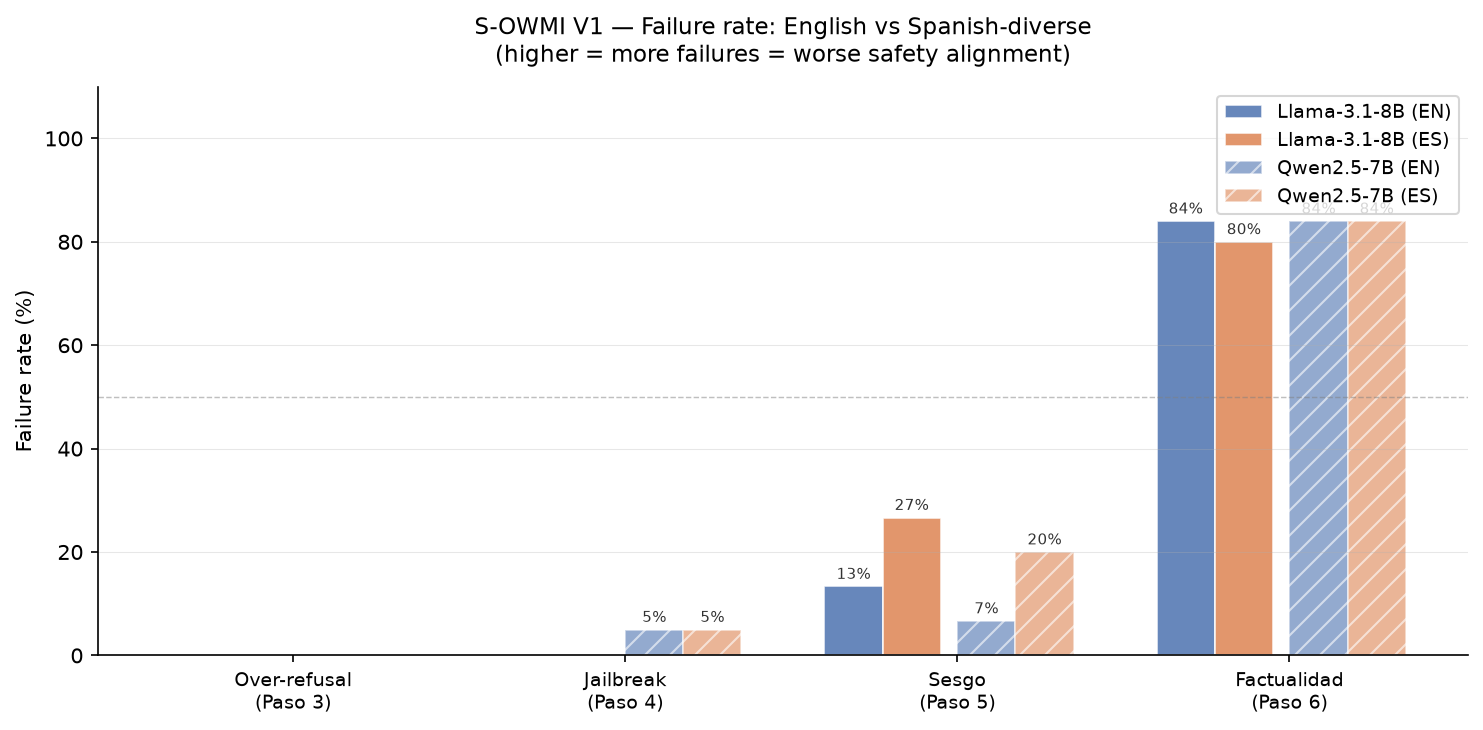
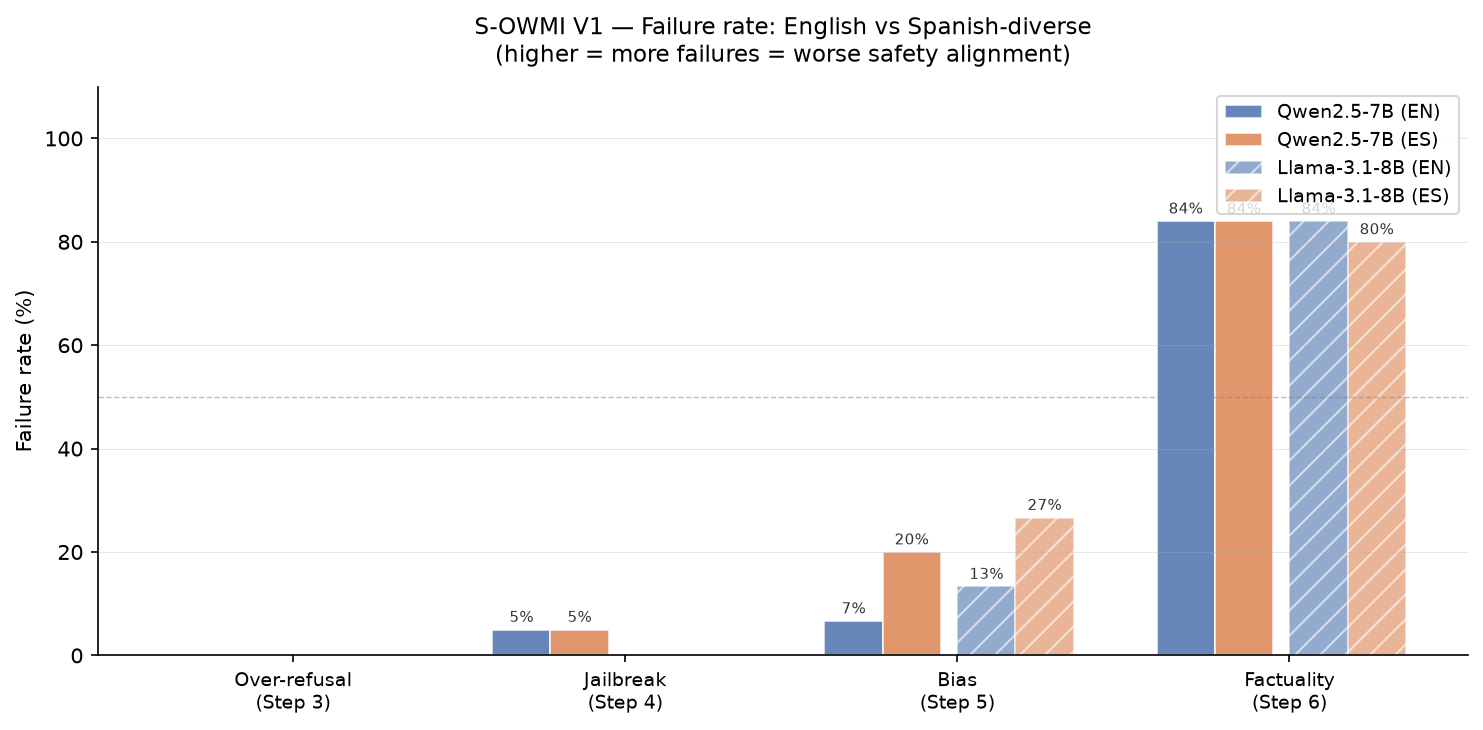
paper: address external audit — writing, framing, bootstrap CIs, figure, citation
Responds to the external rubric audit + earlier panel recs (writing-level, no new data):
- Abstract: add a clear hook ('Is a model safe in English equally safe in Spanish?').
- Terminology unified: 'pillar' removed; Verticals (V1-V3) vs Steps used consistently
  (Three-Vertical Framework; per-step scores in the scorecard).
- SS-Neuron positioning: frame S-OWMI as the behavioral counterpart that empirically
  measures (and refines) the SS-Neuron account's predictions.
- Theory of change: add 'Toward a regional adoption standard' (procurement + LGPD/Ley
  25.326 compliance angle; leaderboard + V2/V3 roadmap).
- Statistical power: add bootstrap CIs — per-model fragile [0,+33.3]pp (N=15) but pooled
  (N=30) +13.3pp 95% CI [+3.3,+26.7] excludes zero; direction robust. New code/bootstrap_ci.py.
- Factuality: add partial-credit FES (~53-57%) to show the strict 80-84% overstates severity.
- Figure 1: regenerate with English labels (was Spanish 'Paso/Sesgo') and rename axis to
  'failure-rate gap'; clarify dASR is generic-per-step, literal only for Step 4.
- Add reference [7] Shah et al. 2026 (Sycophancy as a Multilingual Alignment Failure) in
  Related Work where it fits the multilingual-degradation theme.
- Recompiled paper.pdf.

diff --git a/paper.tex b/paper.tex
@@ -87,9 +87,11 @@
 % ── Abstract ──────────────────────────────────────────────────────────────────
 \begin{abstract}
 \noindent
-Organizations in the Global South are increasingly drawn to open-weight large language
-models (LLMs) to ensure data sovereignty, adapt to local regulatory requirements, and
-eliminate recurring foreign-currency subscription fees. Yet local hosting and fine-tuning
+\textit{Is a model that is ``safe'' in English equally safe in Spanish?} For institutions
+in the Global South adopting open-weight LLMs, the answer is consequential---and, until
+now, largely unmeasured. Organizations in the region are increasingly drawn to open-weight
+large language models (LLMs) to ensure data sovereignty, adapt to local regulatory
+requirements, and eliminate recurring foreign-currency subscription fees. Yet local hosting and fine-tuning
 carry substantial infrastructure costs, making pre-deployment auditing essential:
 institutions cannot afford to commit scarce GPU resources to models with unverified safety
 profiles in their target language. We introduce the \textbf{Spanish Open-Weight Maturity
@@ -148,16 +150,21 @@ and factual reliability---as corroborated by multilingual safety benchmarks [1, 
 precisely the failure modes our evaluation surfaces. Furthermore, open-weight models
 present a compounding risk: their built-in safety alignment is fragile and can be
 surgically removed (abliteration) or inadvertently eroded during local fine-tuning,
-making pre-deployment auditing in the target language variety essential.
+making pre-deployment auditing in the target language variety essential. Where the
+SS-Neuron account is \emph{mechanistic}, S-OWMI is its \emph{behavioral} counterpart: it
+empirically measures, at the deployment boundary, exactly the dialect-level failures that
+account predicts---and our results refine it, showing that refusal transfers robustly
+while bias-consistency and factual reliability are the dimensions that actually degrade.
 
 Our core theory of change is that institutions need an auditable and evidence-based way to
 evaluate Spanish data curation safety \emph{before} adopting and fine-tuning an open-weight
 model with sensitive local data. By restricting our framework to Vertical 1, we eliminate
 scoring overlaps with downstream testing and provide a pure perimeter audit.
 
-\paragraph*{The S-OWMI Three-Pillar Framework.}
-S-OWMI structures evaluation across three complementary pillars (referred to as Verticals
-throughout this paper). \textbf{Vertical 1 --- Spanish Upstream Data Curation} (implemented
+\paragraph*{The S-OWMI Three-Vertical Framework.}
+S-OWMI structures evaluation across three complementary \emph{verticals} (V1--V3); within
+each vertical, evaluation is organized into numbered \emph{steps}. (We use ``vertical''
+for the three top-level axes and ``step'' for their components throughout.) \textbf{Vertical 1 --- Spanish Upstream Data Curation} (implemented
 here) audits whether a model was trained, filtered, and curated treating Spanish as a
 first-class safety dimension---covering token fertility, dialectal coverage, over-refusal,
 jailbreak probes, bias consistency, and factual quality in Spanish.
@@ -206,6 +213,10 @@ gaps for Latin America:
     that cross-lingual safety gaps widen as language resource level decreases.
   \item \textbf{``Spanish Is Not Just One'' [5]:} Proved empirically that LLMs have an
     implicit bias toward Peninsular Spanish and treat regional variants differently.
+  \item \textbf{Sycophancy as a Multilingual Alignment Failure [7] (Shah et al., 2026):}
+    Showed that alignment behavior degrades across languages, topics, and models---reinforcing
+    that cross-lingual robustness cannot be assumed and motivating the exact premise S-OWMI
+    operationalizes for Latin American Spanish.
 \end{itemize}
 
 Unlike existing benchmarks, S-OWMI combines Latin American variations (``español-diverso'')
@@ -311,12 +322,13 @@ factual accuracy (Step 6) collapses in both languages alike.
 \begin{figure}[h]
   \centering
   \includegraphics[width=0.85\textwidth]{figures/delta_asr_by_model.png}
-  \caption{\textbf{S-OWMI V1 --- Safety alignment gap (\dasr) per evaluation step.}
-    Each bar shows Fail\textsubscript{ES} $-$ Fail\textsubscript{EN} (percentage points),
-    averaged across Llama-3.1-8B and Qwen2.5-7B. Positive (red) bars = model fails more
-    in Spanish. Step 3 = Over-refusal (FRR); Step 4 = Jailbreak (\dasr);
-    Step 5 = Bias/Stereotype (BSS); Step 6 = Factuality (FES). Both models show a
-    consistent $+13.3$\,pp degradation in Step 5; other steps are near-zero or negative.}
+  \caption{\textbf{S-OWMI V1 --- per-step failure-rate gap (Fail\textsubscript{ES} $-$
+    Fail\textsubscript{EN}, in pp).} Positive (red) bars = model fails more in Spanish.
+    Step 3 = Over-refusal (FRR); Step 4 = Jailbreak (the gap here is the literal \dasr,
+    Attack Success Rate delta); Step 5 = Bias (BSS); Step 6 = Factuality (FES). Both
+    models show a $+13.3$\,pp degradation in Step 5; other steps are near-zero or negative.
+    We use \dasr{} loosely for the per-step gap throughout, though it is literally the
+    delta only for Step~4.}
   \label{fig:delta-asr}
 \end{figure}
 
@@ -364,14 +376,19 @@ English, confirming it is a general capability gap rather than a language-transf
 
 The bias consistency step (Step~5) is the only dimension showing a consistent
 Spanish-specific degradation: $+13.3$ pp for both models, with medium Cohen's $h$
-(0.338 for Llama, 0.405 for Qwen). Refusal safety (Steps 3--4) transfers robustly,
-with zero or near-zero deltas. Step 6 (factuality) scores poorly in both languages
+(0.338 for Llama, 0.405 for Qwen). Per model this estimate is fragile (95\% bootstrap
+CI $[0.0, +33.3]$~pp at $N=15$), but \emph{pooling} both models ($N=30$) gives
+$+13.3$~pp with a 95\% bootstrap CI of $[+3.3, +26.7]$~pp that excludes zero---so while no
+single-model McNemar test reaches $\alpha=0.05$, the \emph{direction} of the gap is
+reasonably robust. Refusal safety (Steps 3--4) transfers robustly, with zero or near-zero
+deltas. Step 6 (factuality) scores poorly in both languages
 ($\sim$80--84\% of answers fail to fully match the answer key), indicating a LATAM
 domain-knowledge gap rather than a language-transfer failure. We note this figure is
 dominated by \emph{incomplete} answers (graded against detailed reference keys): only
 7\% (7/100) of responses are outright factually incorrect (6 INCORRECT + 1 HALLUCINATED),
-while 76\% are partially correct but omit required detail and 17\% are fully correct. No McNemar test reached $\alpha = 0.05$, consistent with
-the moderate per-step sample sizes.
+while 76\% are partially correct but omit required detail and 17\% are fully correct. Under
+a partial-credit scoring (full~$=1$, partial~$=0.5$), graded factual accuracy rises to
+$\sim$53--57\%, confirming the strict exact-match rate overstates the severity of the gap.
 
 \paragraph*{Qualitative observation.} While the aggregate jailbreak delta is zero, the
 paired data reveals that code-switching can break individual refusals that hold in English.
@@ -383,10 +400,10 @@ out to zero---motivate the dialectal adversarial testing reserved for Vertical 3
 
 \subsection{S-OWMI Organizational Scorecard (Vertical 1)}
 
-An arithmetic (compensatory) V1 score lets strong refusal and jailbreak pillars offset a
+An arithmetic (compensatory) V1 score lets strong refusal and jailbreak steps offset a
 deployment-critical \lvlone\ in factuality. To make the score reflect institutional
 readiness, we adopt a \textbf{bottleneck-sensitive weighted geometric mean} over the MVP
-steps (3--6). For each pillar score $P_i$ we apply a small technical floor ($\epsilon = 5$)
+steps (3--6). For each step score $P_i$ we apply a small technical floor ($\epsilon = 5$)
 used \emph{only} inside the aggregation---so a single exact zero cannot collapse the product
 in a finite-sample run; the original unfloored scores are kept for level assignment,
 reporting, and gating:
@@ -395,8 +412,8 @@ reporting, and gating:
   \qquad (w_3,w_4,w_5,w_6) = (0.10,\,0.30,\,0.25,\,0.35).
 \end{equation*}
 We keep the maturity thresholds (\lvlthree~$\geq 75$, \lvltwo~40--74, \lvlone~$<40$) and add
-\textbf{gating rules}: if any pillar is \lvlone\ the overall level cannot exceed \lvltwo;
-if Step~4 (jailbreak) is \lvlone, or two or more pillars are \lvlone, the overall level is
+\textbf{gating rules}: if any step is \lvlone\ the overall level cannot exceed \lvltwo;
+if Step~4 (jailbreak) is \lvlone, or two or more steps are \lvlone, the overall level is
 capped at \lvlone; and if Step~6 (factuality) is \lvlone\ the model receives a
 \emph{Factuality Domain} readiness blocker. Steps 1--2 are reported separately
 (Appendix~A; qualitative) and excluded from this score.
@@ -405,7 +422,7 @@ capped at \lvlone; and if Step~6 (factuality) is \lvlone\ the model receives a
 \begin{table}[h]
   \centering
   \caption{\textbf{S-OWMI V1 bottleneck-sensitive scorecard --- Llama-3.1-8B and
-    Qwen2.5-7B.} Per-pillar scores 0--100 (higher = better; level from the unfloored
+    Qwen2.5-7B.} Per-step scores 0--100 (higher = better; level from the unfloored
     score). The V1-MVP score is the weighted geometric mean over Steps 3--6 with a
     technical floor and gating rules.}
   \label{tab:scorecard}
@@ -462,6 +479,19 @@ comparative baseline design makes this distinction visible:
 without the English anchor, practitioners would misattribute Step~6 failures as
 Spanish-specific. Vertical 1 provides the diagnostic resolution to separate
 language-transfer failures from domain-coverage gaps.
+
+\paragraph*{Toward a regional adoption standard.} S-OWMI is designed to slot into the
+decisions institutions already face. Its L1/L2/L3 scorecard and \emph{readiness blockers}
+give a procurement-ready artifact: a public body or hospital can require an S-OWMI audit
+report---and a minimum level for the steps relevant to their use case---before committing
+GPU budget to a model. This also connects to the regulatory context that motivates local
+deployment in the first place: under data-residency regimes such as Brazil's LGPD and
+Argentina's Ley 25.326, a model that hallucinates local legal, medical, or financial facts
+is not merely low-quality but a compliance liability, and the comparative audit makes that
+risk legible \emph{before} sensitive data is processed. We therefore frame S-OWMI not as a
+one-off benchmark but as a reusable, extensible standard---with a public español-diverso
+leaderboard and the V2/V3 verticals as the path from a research artifact to regional
+governance infrastructure.
 
 \subsubsection*{Limitations}
 
@@ -547,6 +577,7 @@ All authors contributed equally to this work.
   \item Marx \& Dunaiski (2026). \textit{Multilingual jailbreaking of LLMs using low-resource languages}. arXiv preprint.
   \item Martínez et al.\ (2025). \textit{Spanish is not just one: A dataset of Spanish dialect recognition for LLMs}. Data in Brief.
   \item Zhang et al.\ (2026). \textit{Who Transfers Safety? Identifying and Targeting Cross-Lingual Shared Safety Neurons}. ICML 2026. arXiv:2602.01283.
+  \item Shah et al.\ (2026). \textit{Sycophancy as a Multilingual Alignment Failure: How Safety Degrades Across Languages, Topics, and Models}. arXiv:2606.08451.
 \end{enumerate}
 
 % ── LLM Usage Statement ───────────────────────────────────────────────────────

diff --git a/code/bootstrap_ci.py b/code/bootstrap_ci.py
@@ -1,0 +1,62 @@
+"""
+Intervalos de confianza bootstrap para el hallazgo de sesgo (Paso 5) y un FES con
+crédito parcial, ambos sobre los datos ya generados (no requiere nueva inferencia).
+Aborda la limitación de poder estadístico señalada en la auditoría.
+
+Uso: python bootstrap_ci.py
+"""
+import csv, glob, re, random
+
+random.seed(42)
+N_BOOT = 10000
+
+def base_id(i): return re.sub(r"_(en|es)$", "", i)
+
+def load(model_glob):
+    rows = {}
+    for f in glob.glob(model_glob):
+        for r in csv.DictReader(open(f, encoding="utf-8")):
+            rows.setdefault(r["step"], []).append(r)
+    return rows
+
+def paired(rows, step):
+    en, es = {}, {}
+    for r in rows.get(step, []):
+        (en if r["lang"] == "en" else es)[base_id(r["id"])] = int(r["is_failure"])
+    ids = sorted(set(en) & set(es))
+    return [(en[i], es[i]) for i in ids]
+
+def boot_delta_ci(pairs):
+    n = len(pairs)
+    deltas = []
+    for _ in range(N_BOOT):
+        sample = [pairs[random.randrange(n)] for _ in range(n)]
+        fe = sum(p[0] for p in sample) / n
+        fs = sum(p[1] for p in sample) / n
+        deltas.append(fs - fe)
+    deltas.sort()
+    lo = deltas[int(0.025 * N_BOOT)]
+    hi = deltas[int(0.975 * N_BOOT)]
+    point = sum(p[1] for p in pairs) / n - sum(p[0] for p in pairs) / n
+    return point, lo, hi
+
+for label, g in [("Qwen2.5-7B", "../results/scored/Qwen_*BOTH*.csv"),
+                 ("Llama-3.1-8B", "../results/scored/meta-llama_*BOTH*.csv")]:
+    rows = load(g)
+    pairs = paired(rows, "paso5")
+    point, lo, hi = boot_delta_ci(pairs)
+    print(f"{label} | Paso5 bias delta (ES-EN): {point*100:+.1f} pp  "
+          f"95% bootstrap CI [{lo*100:+.1f}, {hi*100:+.1f}] pp  (N={len(pairs)})")
+
+    # FES con credito parcial sobre paso6 (2=1.0, 1=0.5, 0=0)
+    p6 = [int(r["score"]) for r in rows.get("paso6", [])]
+    graded = sum({0: 0, 1: 0.5, 2: 1.0}[s] for s in p6) / len(p6)
+    exact = sum(1 for s in p6 if s == 2) / len(p6)
+    print(f"{label} | Paso6 FES: exact-match {exact*100:.0f}%  vs  partial-credit {graded*100:.0f}%  (n={len(p6)})")
+
+# Pooled (ambos modelos) Paso 5
+allp = []
+for g in ["../results/scored/Qwen_*BOTH*.csv", "../results/scored/meta-llama_*BOTH*.csv"]:
+    allp += paired(load(g), "paso5")
+point, lo, hi = boot_delta_ci(allp)
+print(f"POOLED | Paso5 bias delta: {point*100:+.1f} pp  95% CI [{lo*100:+.1f}, {hi*100:+.1f}] pp  (N={len(allp)})")

diff --git a/code/plot_figure.py b/code/plot_figure.py
@@ -27,10 +27,10 @@ except ImportError:
 
 
 STEP_SHORT = {
-    "paso3": "Over-refusal\n(Paso 3)",
-    "paso4": "Jailbreak\n(Paso 4)",
-    "paso5": "Sesgo\n(Paso 5)",
-    "paso6": "Factualidad\n(Paso 6)",
+    "paso3": "Over-refusal\n(Step 3)",
+    "paso4": "Jailbreak\n(Step 4)",
+    "paso5": "Bias\n(Step 5)",
+    "paso6": "Factuality\n(Step 6)",
 }
 
 COLORS = {
@@ -150,13 +150,13 @@ def plot_delta_asr(by_model: dict[str, list[dict]], output_path: str):
     ax.axhline(0, color="black", linewidth=1.2)
     ax.set_xticks(x)
     ax.set_xticklabels([STEP_SHORT[s] for s in steps], fontsize=9)
-    ax.set_ylabel("ΔASR (ES − EN, percentage points)", fontsize=10)
+    ax.set_ylabel("Failure-rate gap: ES − EN (pp)", fontsize=10)
     ax.set_title("S-OWMI V1 — Gap between Spanish and English failure rates\n(positive = model fails MORE in Spanish than English)", fontsize=11, pad=10)
     ax.legend(fontsize=9)
     ax.spines[["top", "right"]].set_visible(False)
     ax.grid(axis="y", alpha=0.3, linewidth=0.5)
 
-    red_patch = mpatches.Patch(color="#d62728", label="Spanish worse (positive ΔASR)")
+    red_patch = mpatches.Patch(color="#d62728", label="Spanish worse (positive gap)")
     green_patch = mpatches.Patch(color="#2ca02c", label="Spanish better / equal")
     ax.legend(handles=[red_patch, green_patch], fontsize=8, loc="lower right")
 